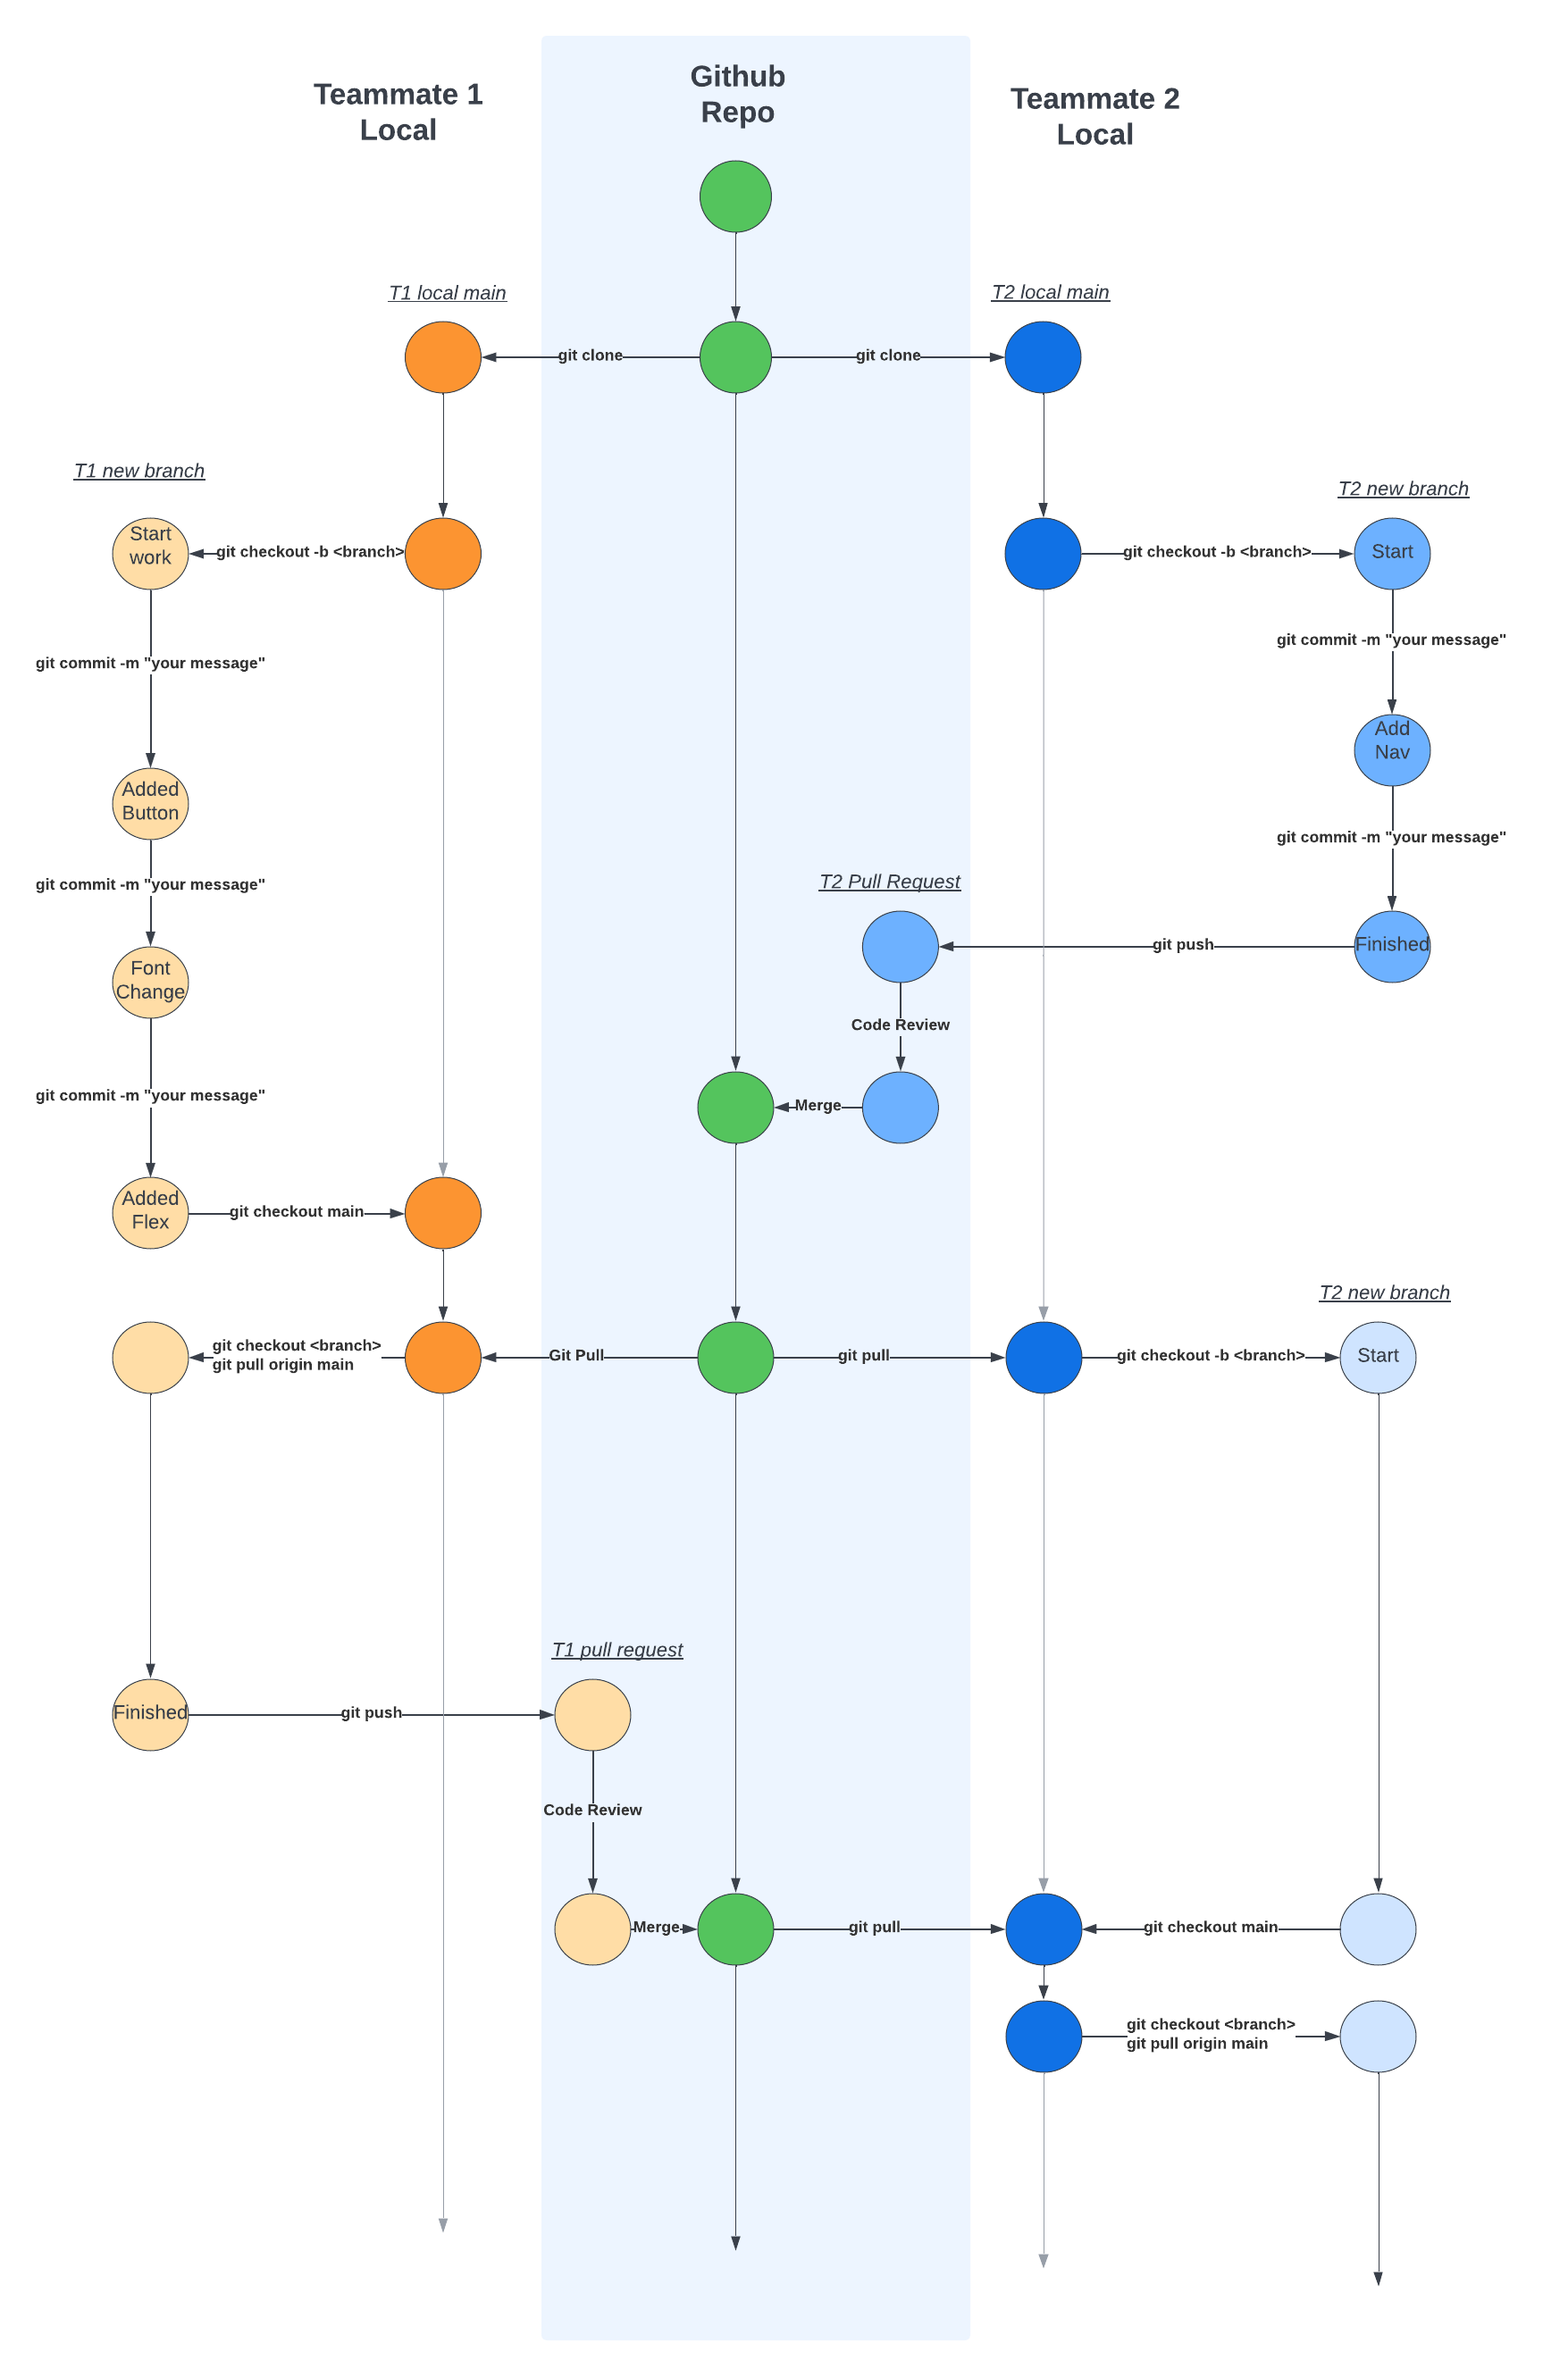
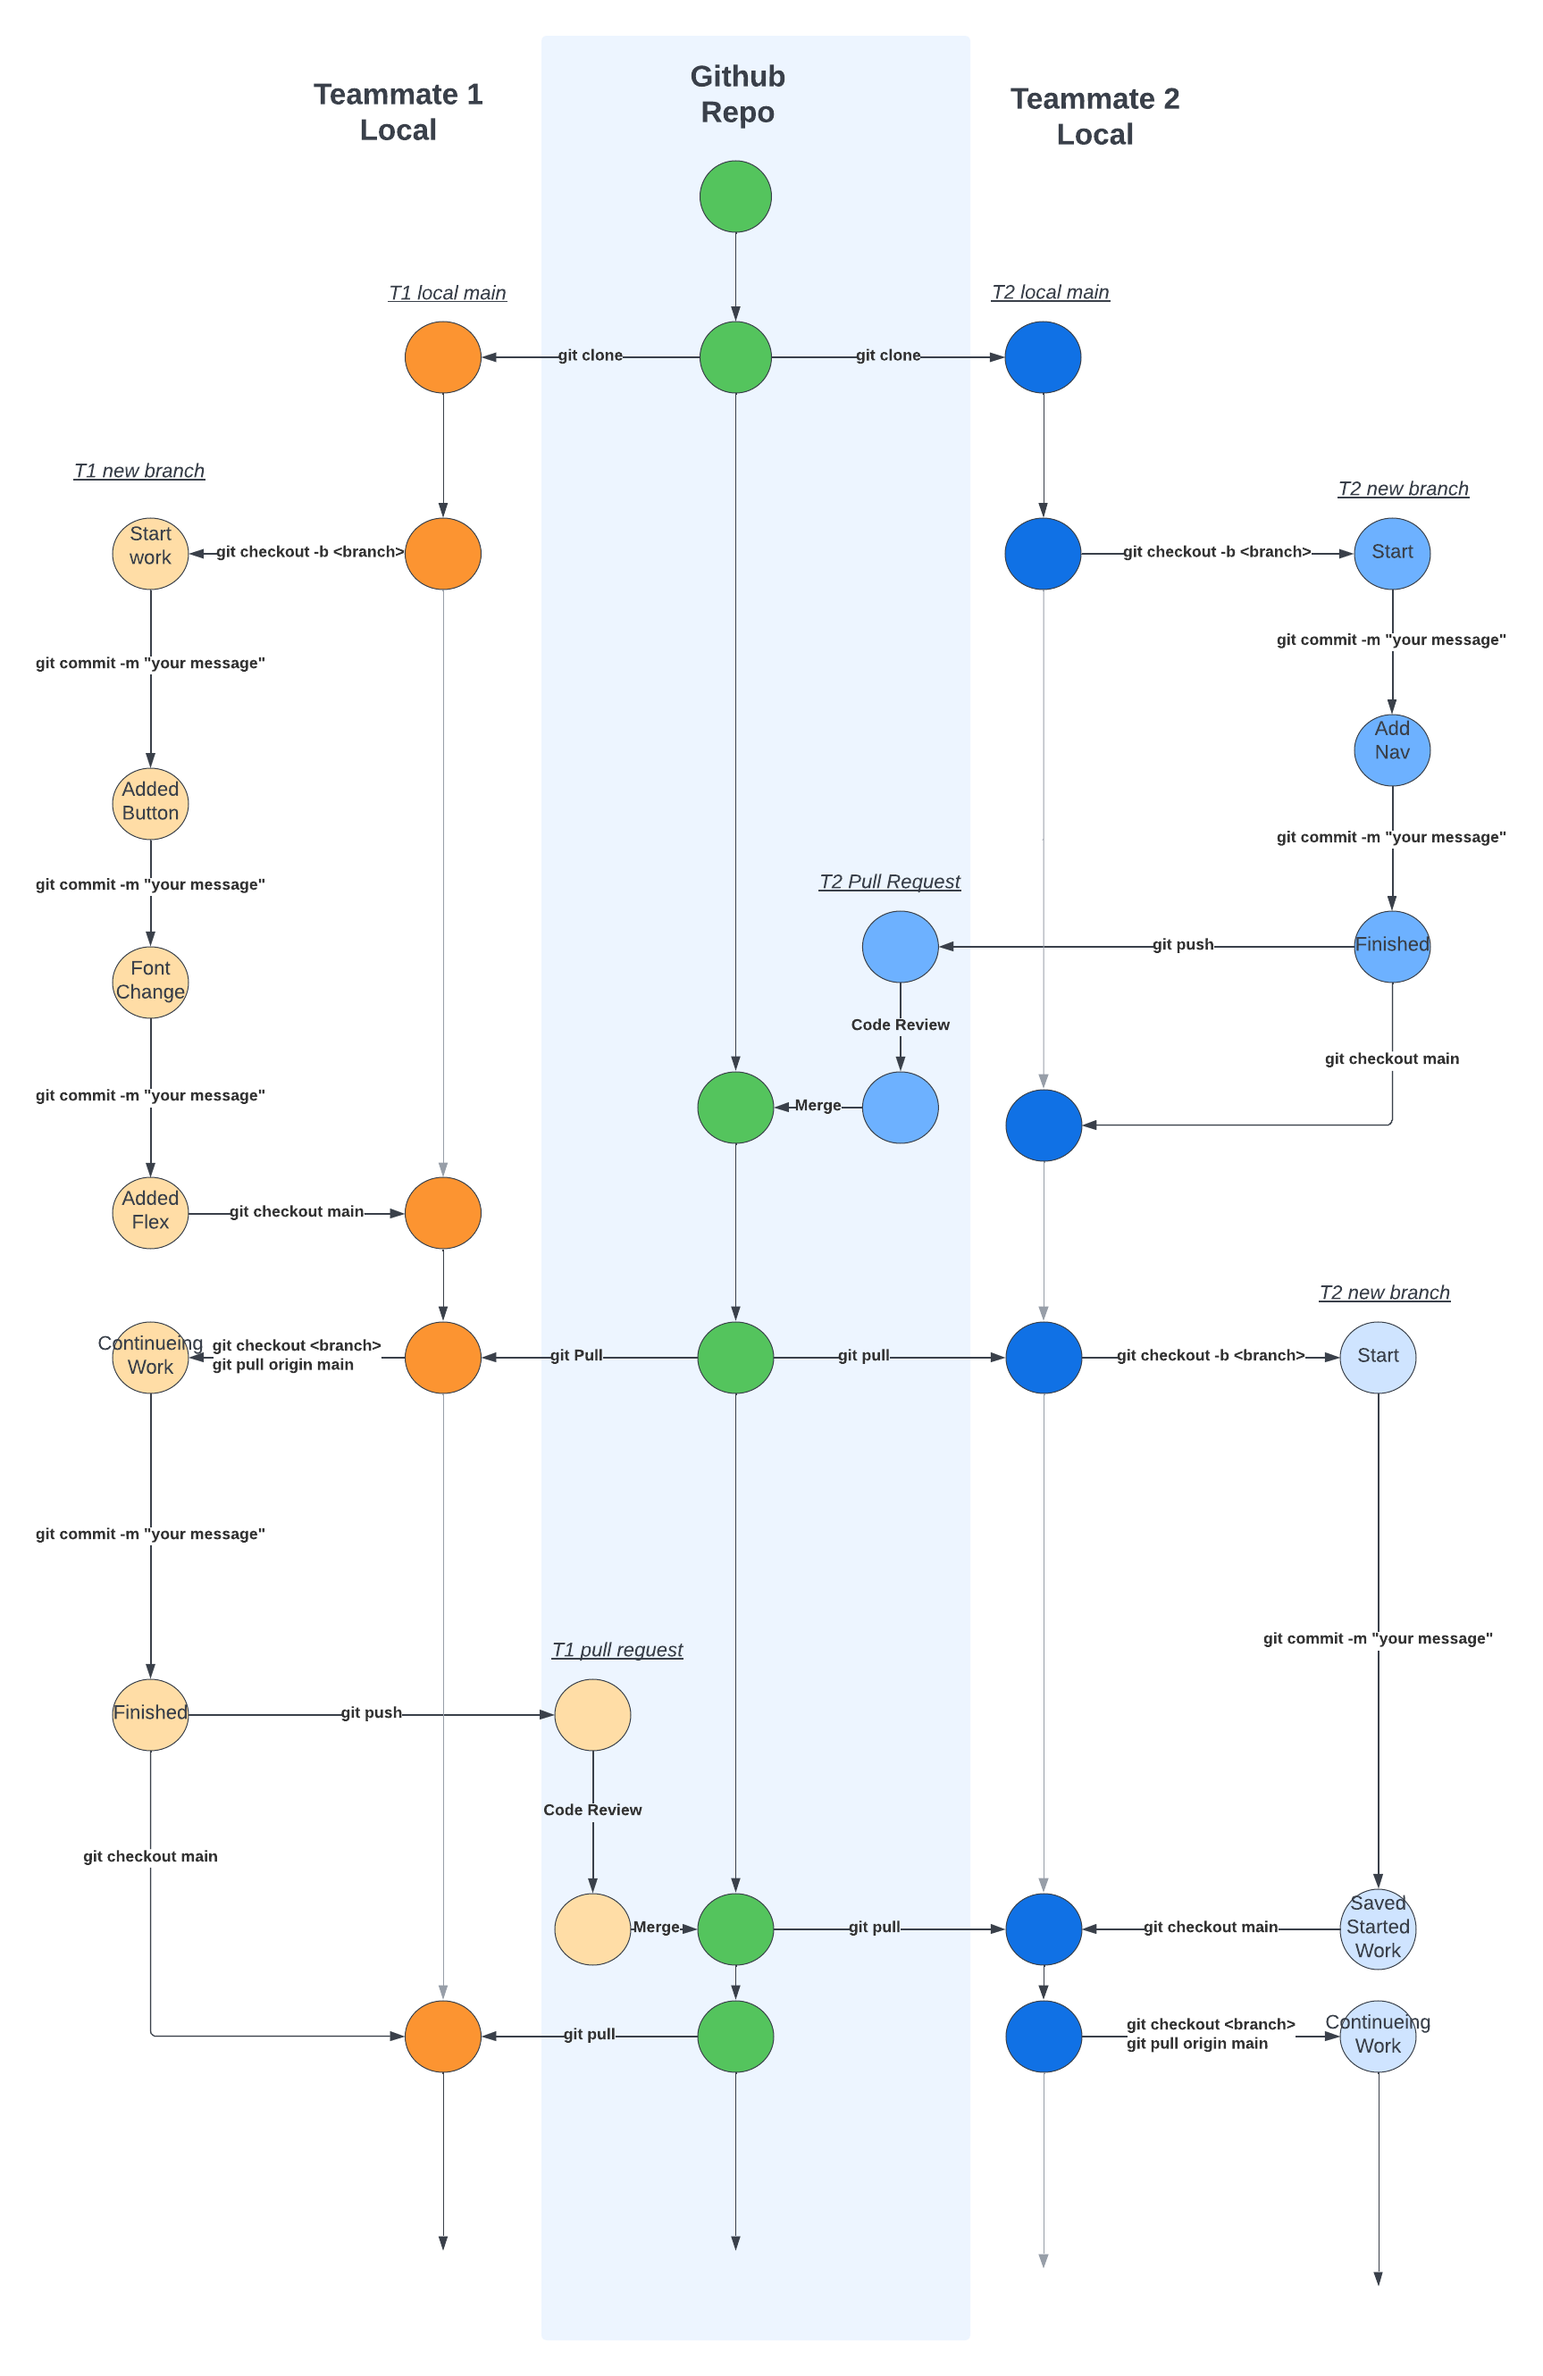
udpated diagram

diff --git a/CourseMaterial/Sprint_1/Git/Content/GithubWorkflow.md b/CourseMaterial/Sprint_1/Git/Content/GithubWorkflow.md
@@ -13,7 +13,7 @@ The actions they will demonstrate are:
 - Pulling the new code into your local branches
 - Creating a new branch after finishing
 
-![](../images/GitHub-flow.png)
+![](../images/GitHub-Flow.png)
 
 ## Terms To Know
 
@@ -49,6 +49,8 @@ They can now push their work up to Github to be reviewed and merged. We can see 
 
 If the teammate thinks that the code looks good they will then approve and merge the PR.
 
+Afterwards, Teammate 2 checkouts out to their local main branch. They are done with the branch they were working on and are ready to start a new one.
+
 ### Pulling New Code In Locally
 
 As you can see on the other side of the diagram, Teammate 1 is still working on their branch and will need to make sure to include the code that Teammate 2 just merged into the main branch in Github.
@@ -70,7 +72,6 @@ So, Teammate 1 is going to:
 
 Similarly, Teammate 2 now needs to get the new code in their local branch and start a new branch. You can see here in the diagram that they:
 
-- Go ahead and checkout to their main branch
 - Pull in the main branch from Github into their local main branch
 - Checkout to a new branch
 
